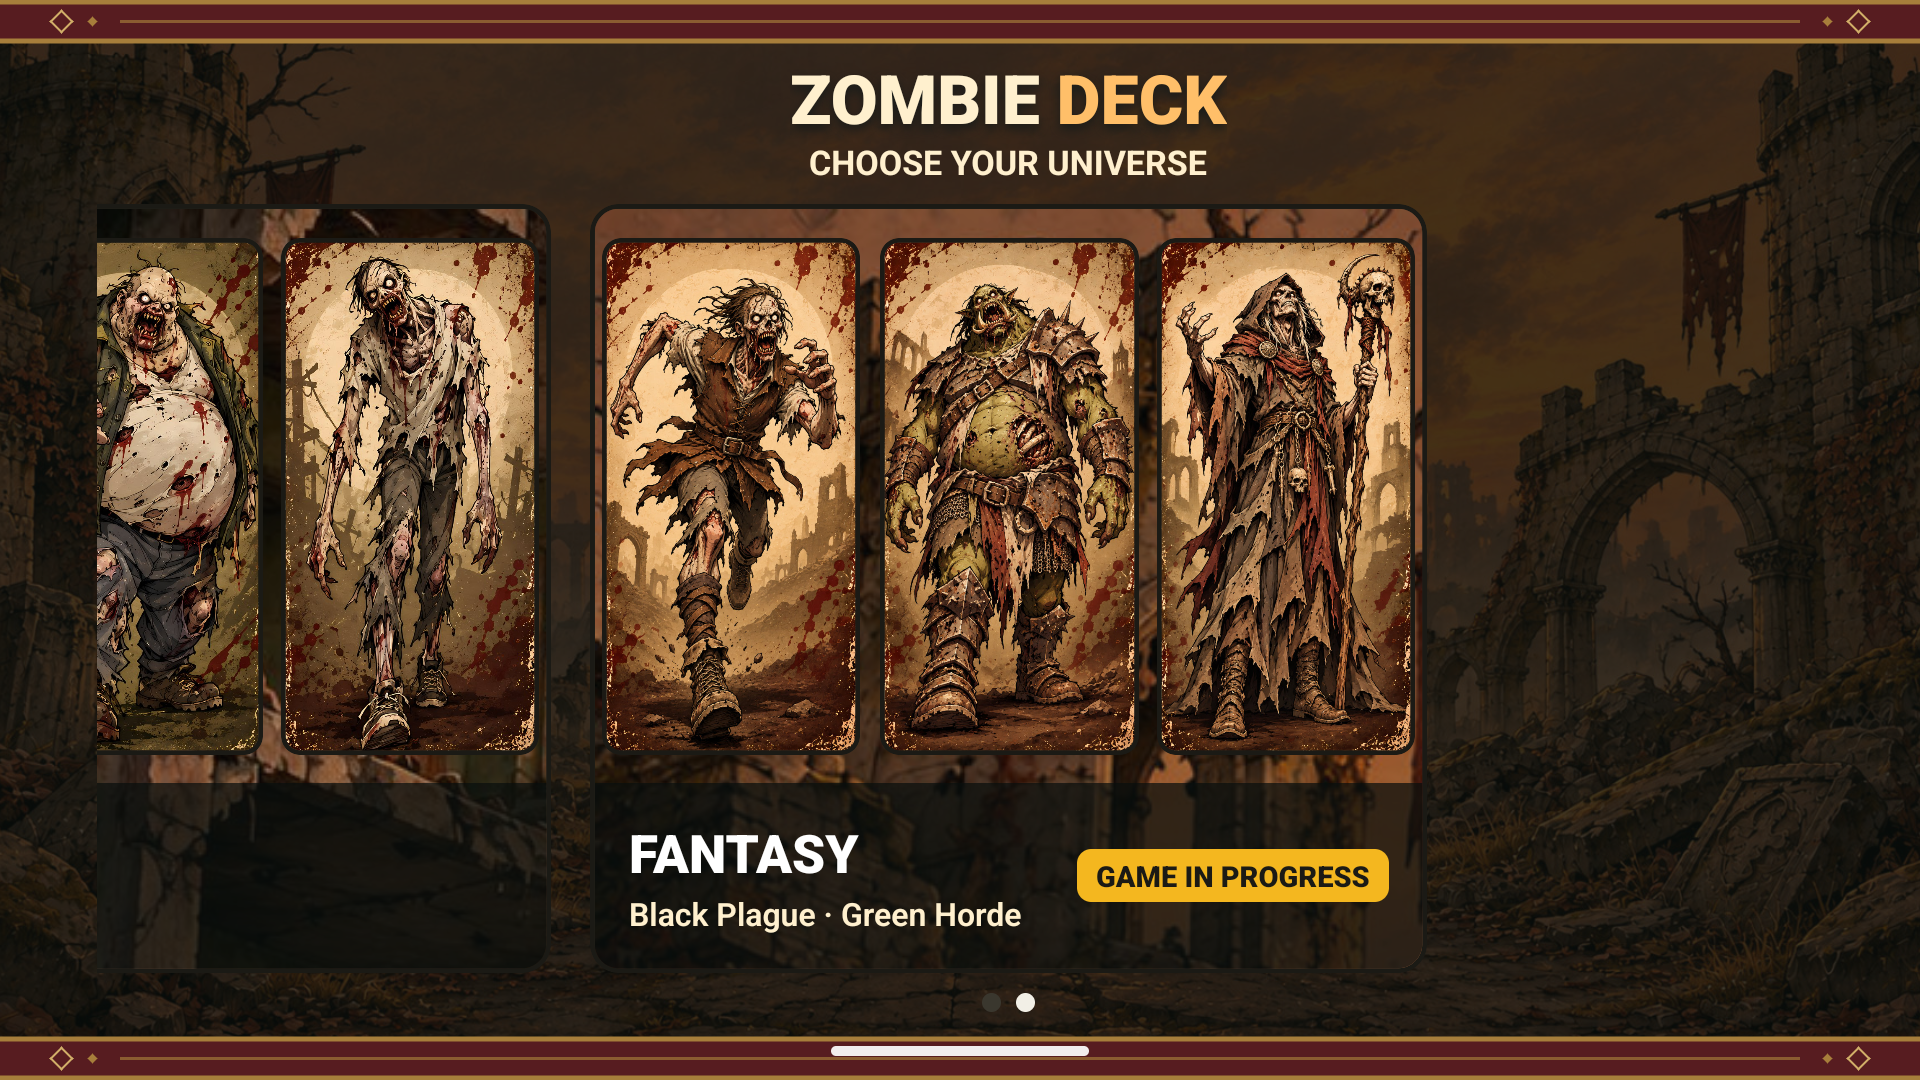
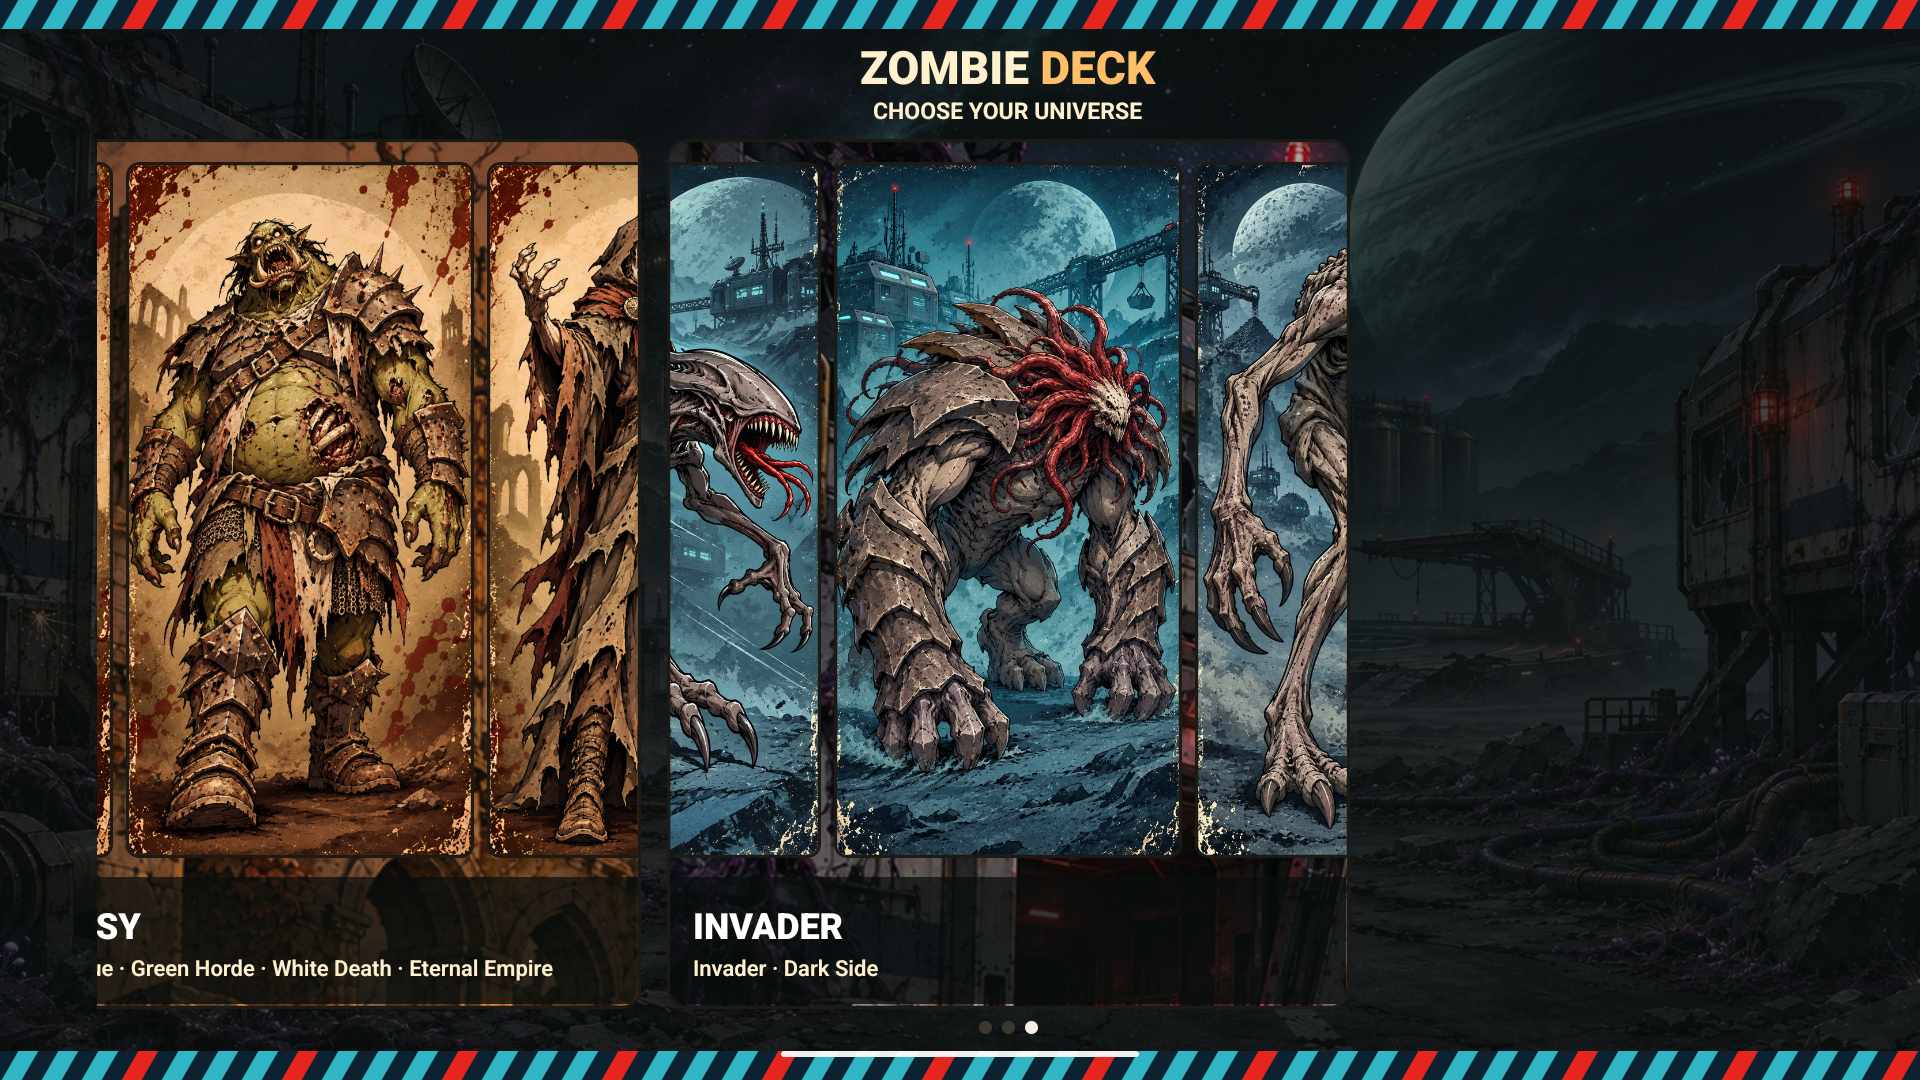
Show Invader in the store screenshots
The store screenshots had no Invader. Four of the eight 1920x1080 shots are
now Invader (taken on the emulator at 1920x1080): the carousel on Invader,
two Invader games with named Abominations and an Iron Maiden Eddie, and the
Invader expansions. The Fantasy menu, the three-zone Fantasy game and the
Fantasy expansions make room; the listing describes the new order.

diff --git a/store/listing.md b/store/listing.md
@@ -4,7 +4,7 @@ Text for the Google Play and App Store listings, one section per language. Limit
 
 Language codes are the Play Console ones (Ukrainian is `uk`, not `uk-UA`).
 
-Images: `feature-graphic.png` (Play Store banner, 1024×500) and `screenshots/` (1920×1080, in display order: the universes, Fantasy, then Modern; Invader screenshots are still to be made, TODO before the Invader release).
+Images: `feature-graphic.png` (Play Store banner, 1024×500) and `screenshots/` (1920×1080, in display order: the universes carousel on Invader, an Invader game on four zones, a Fantasy game, the card zoom, an Invader game with an Iron Maiden Eddie, two Modern games, then the Invader expansions).
 
 ---
 
